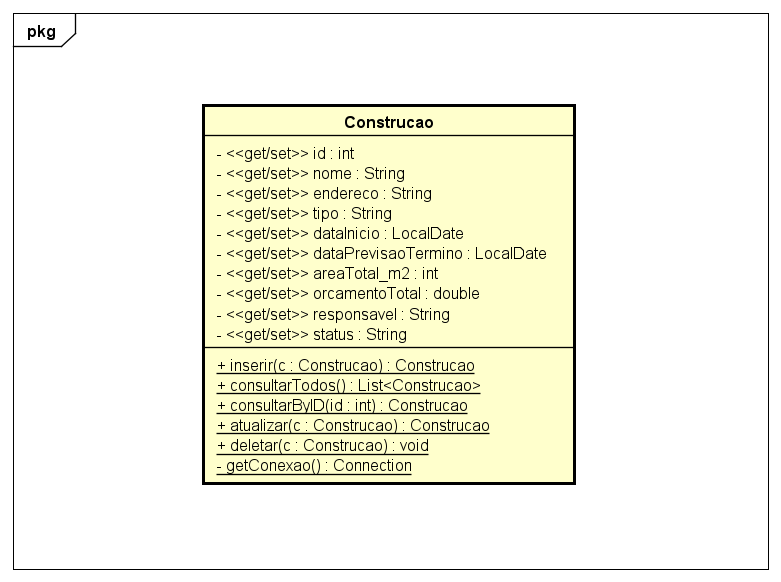
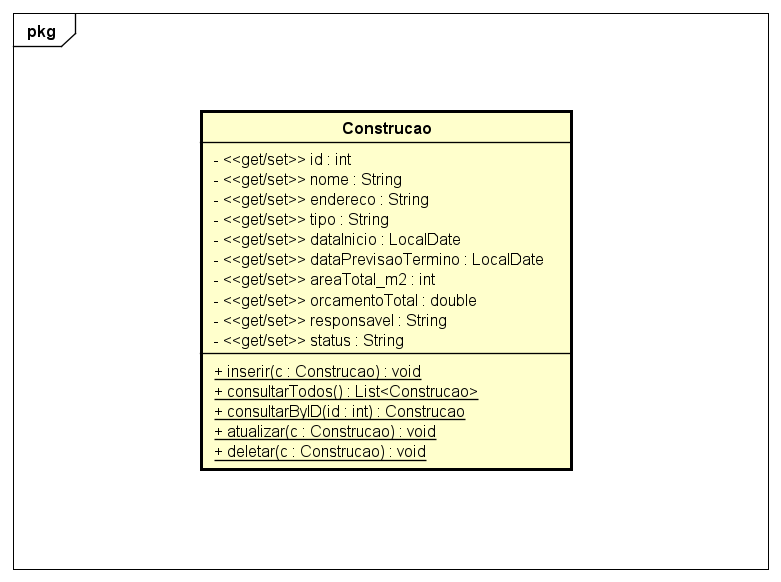
Ajustes na Construcao e atualizacao do diagrama

Changed region(s): [[0.2458, 0.1546, 0.7375, 0.8351]]

diff --git a/src/main/java/poo_crud_2sem_2024/Construcao.java b/src/main/java/poo_crud_2sem_2024/Construcao.java
@@ -6,6 +6,7 @@ import java.sql.PreparedStatement;
 import java.sql.ResultSet;
 import java.sql.SQLException;
 import java.time.LocalDate;
+import java.time.format.DateTimeFormatter;
 import java.util.ArrayList;
 import java.util.List;
 
@@ -22,7 +23,7 @@ public class Construcao {
     private String      responsavel;
     private String      status;
 
-    public static Construcao inserir(Construcao c) throws ClassNotFoundException, SQLException{
+    public static void inserir(Construcao c) throws ClassNotFoundException, SQLException{
         Connection conn = getConexao();
         String SQL = "INSERT INTO construcoes" +
                      "(nome, endereco, tipo," +
@@ -52,7 +53,6 @@ public class Construcao {
         // Fechar o PreparedStatement e a conexão
         pstmt.close();
         conn.close();
-        return c;
     }
     
     public static List<Construcao> consultarTodos() throws SQLException, ClassNotFoundException {
@@ -109,7 +109,7 @@ public class Construcao {
         return cst;
     }
     
-    public static Construcao atualizar(Construcao c) throws ClassNotFoundException, SQLException {
+    public static void atualizar(Construcao c) throws ClassNotFoundException, SQLException {
         Connection conn = getConexao();
         String SQL = "UPDATE construcoes SET " +
                      "nome = ?, endereco = ?, tipo = ?, " +
@@ -144,8 +144,6 @@ public class Construcao {
         // Fechar o PreparedStatement e a conexão
         pstmt.close();
         conn.close();
-    
-        return c;
     }
      
     public static void deletar(Construcao c) throws SQLException, ClassNotFoundException {
@@ -176,13 +174,16 @@ public class Construcao {
     
     @Override
     public String toString(){
+
+        DateTimeFormatter formatter = DateTimeFormatter.ofPattern("dd/MM/yyyy");
+
         return new StringBuilder()
             .append("ID: ").append(id).append("\n")
             .append("Nome: ").append(nome).append("\n")
             .append("Endereco: ").append(endereco).append("\n")
             .append("Tipo de Construcao: ").append(tipo).append("\n")
-            .append("Data de Inicio: ").append(dataInicio).append("\n")
-            .append("Data de previsao de termino: ").append(dataPrevisaoTermino).append("\n")
+            .append("Data de Inicio: ").append(formatter.format(dataInicio)).append("\n")
+            .append("Data de previsao de termino: ").append(formatter.format(dataPrevisaoTermino)).append("\n")
             .append("Area total (em m2): ").append(areaTotal_m2).append("\n")
             .append("Orcamento total: ").append(orcamentoTotal).append("\n")
             .append("Responsavel: ").append(responsavel).append("\n")
